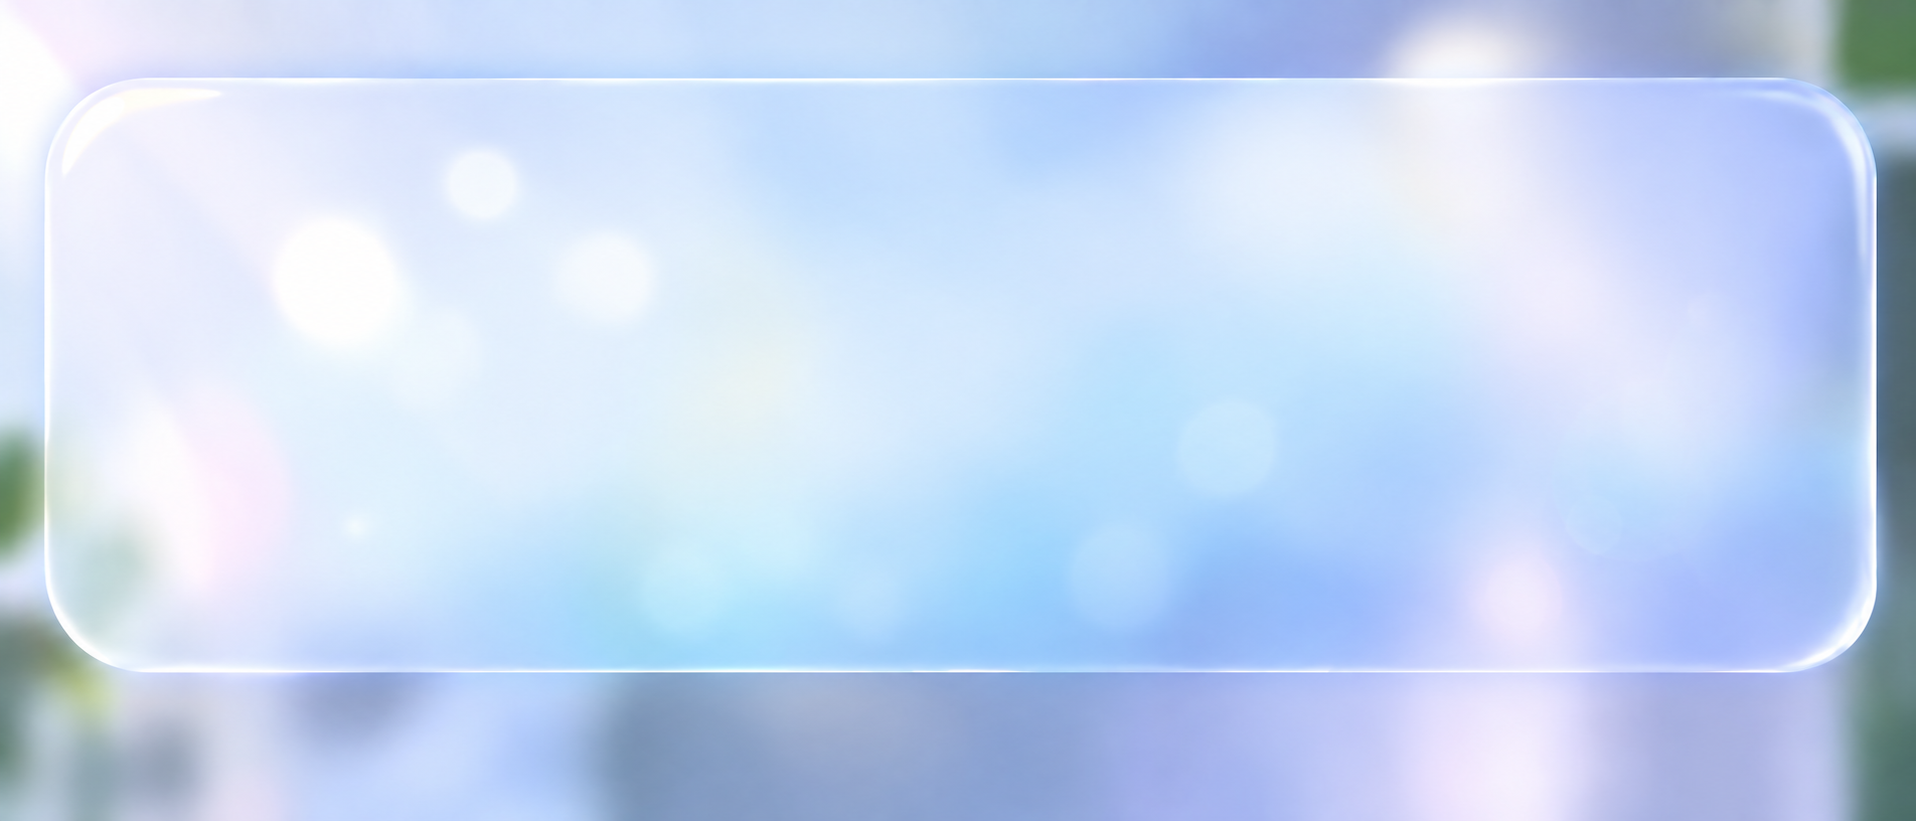
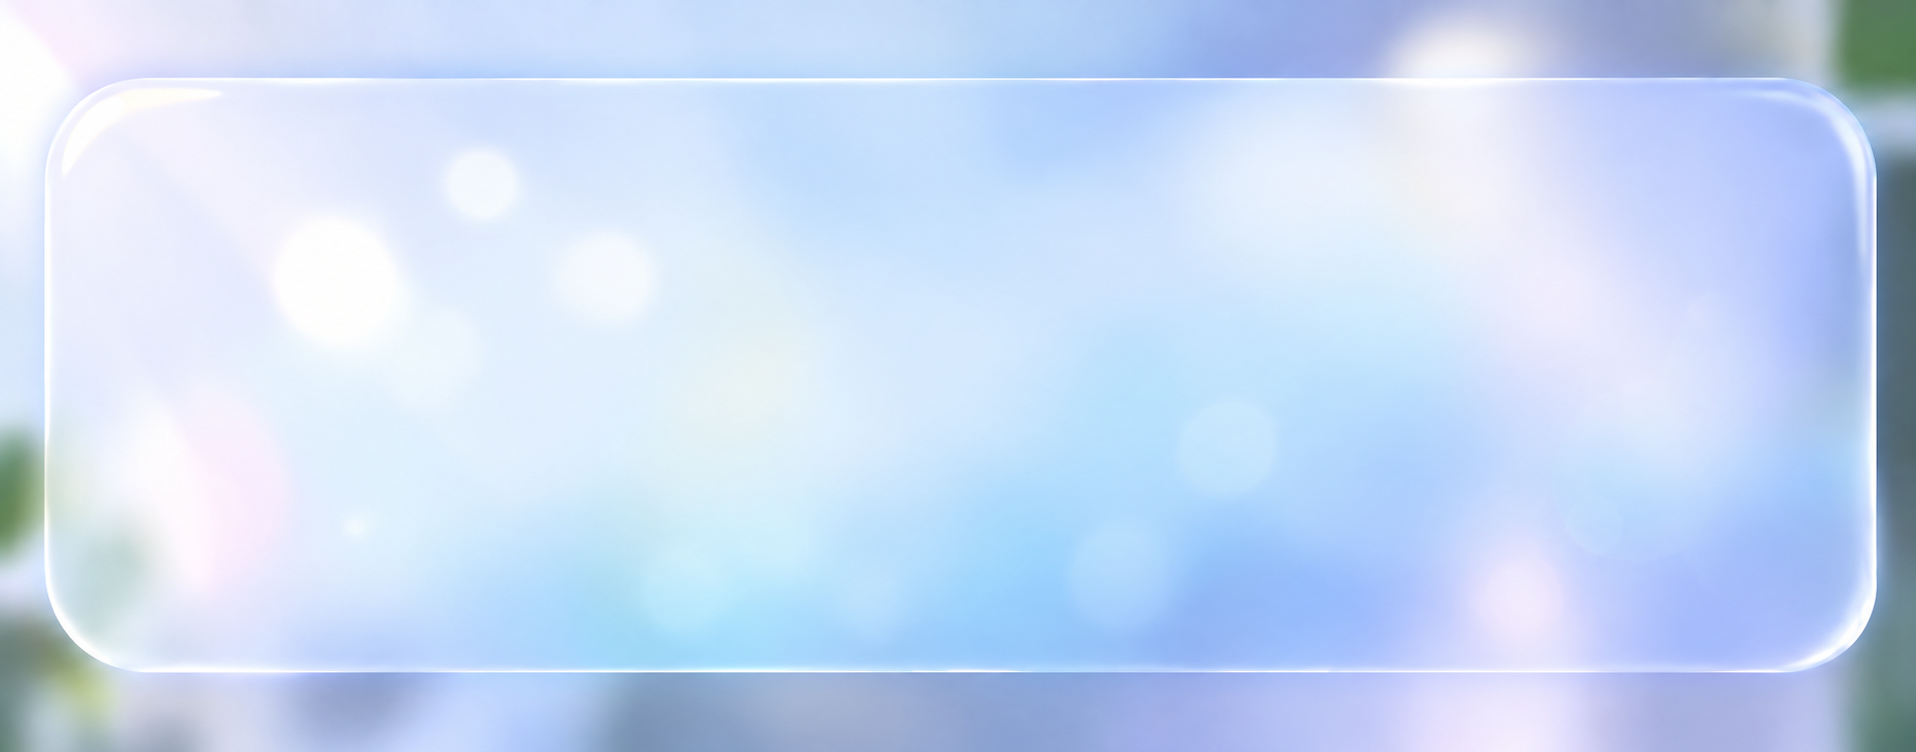
Use cropped Ditzit background and refine copy position

diff --git a/index.html b/index.html
@@ -28,13 +28,13 @@ h2{font-size:16px;margin:0 0 14px}
 .guide{display:flex;justify-content:space-between;align-items:center}
 .guide h2{margin-bottom:6px}
 .guide b{font-weight:400;color:#8b95a1}
-.zone{position:relative;isolation:isolate;display:block;width:100%;aspect-ratio:2.34;border:0;border-radius:16px;overflow:hidden;text-align:left;background:#e3edfc url('background.png') center/cover;cursor:pointer;color:#132a49;font-family:inherit;box-shadow:0 2px 8px #31527b1a}
+.zone{position:relative;isolation:isolate;display:block;width:100%;aspect-ratio:1916/766;border:0;border-radius:16px;overflow:hidden;text-align:left;background:#e3edfc url('background.png') center/100% 100% no-repeat;cursor:pointer;color:#132a49;font-family:inherit;box-shadow:0 2px 8px #31527b1a}
 .zone:before{content:'';position:absolute;inset:0;z-index:-1;background:linear-gradient(90deg,#f8fbfff0 0%,#f4f9ffd2 35%,#edf5ff42 59%,transparent 76%)}
-.copy{position:absolute;z-index:2;top:21%;bottom:13%;left:5%;width:57%;display:flex;flex-direction:column;align-items:flex-start;pointer-events:none}
+.copy{position:absolute;z-index:2;top:20%;bottom:13%;left:7%;width:57%;display:flex;flex-direction:column;align-items:flex-start;pointer-events:none}
 .zone h2{font-size:26px;line-height:.96;letter-spacing:-2px;font-weight:950;margin:0 0 7px;white-space:nowrap;text-shadow:0 1px 0 #ffffff70}
 .zone h2 em{font-style:normal;color:#247ce8;letter-spacing:-1.25px}
 .zone p{font-size:11.5px;font-weight:650;letter-spacing:-.4px;line-height:1.35;margin:0;color:#4d6482}
-.cta{display:inline-flex;gap:7px;align-items:center;margin-top:auto;font-size:11.5px;font-weight:850;letter-spacing:-.25px;color:#173f78;border-bottom:1.5px solid #4e98ee;padding:0 1px 4px}
+.cta{display:inline-flex;gap:7px;align-items:center;margin-top:10px;font-size:11.5px;font-weight:850;letter-spacing:-.25px;color:#173f78;border-bottom:1.5px solid #4e98ee;padding:0 1px 4px}
 .cta>span{font-size:15px;line-height:10px}
 .art{position:absolute;width:62%;right:1.5%;bottom:3%;pointer-events:none;animation:float 5.6s ease-in-out infinite;transform-origin:55% 65%;z-index:1;filter:drop-shadow(0 9px 11px #315b8e1f)}
 .zone:active{scale:.99}
@@ -45,7 +45,7 @@ h2{font-size:16px;margin:0 0 14px}
 .note{font-size:11px;color:#8b95a1;text-align:center;margin:14px 0 0}
 .status{font-size:12px;color:#537199;min-height:20px;text-align:center;margin-top:16px}
 @media(max-width:700px){main{flex-direction:column;align-items:center}header{margin-top:22px}.sample{width:390px}}
-@media(max-width:360px){.copy{top:20%;bottom:12%;left:5%}.zone h2{font-size:22px;letter-spacing:-1.7px;margin-bottom:5px}.zone p{font-size:10.25px}.cta{font-size:10.5px;padding-bottom:3px}}
+@media(max-width:360px){.copy{top:19%;bottom:12%;left:7%}.zone h2{font-size:22px;letter-spacing:-1.7px;margin-bottom:5px}.zone p{font-size:10.25px}.cta{font-size:10.5px;margin-top:8px;padding-bottom:3px}}
 @media(prefers-reduced-motion:reduce){.art{animation:none}}
 </style>
 <header>
